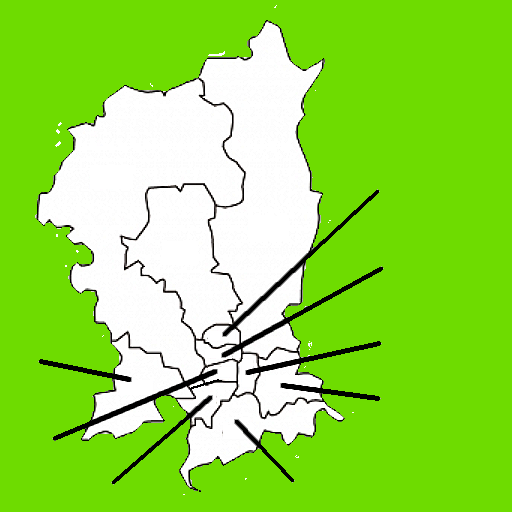
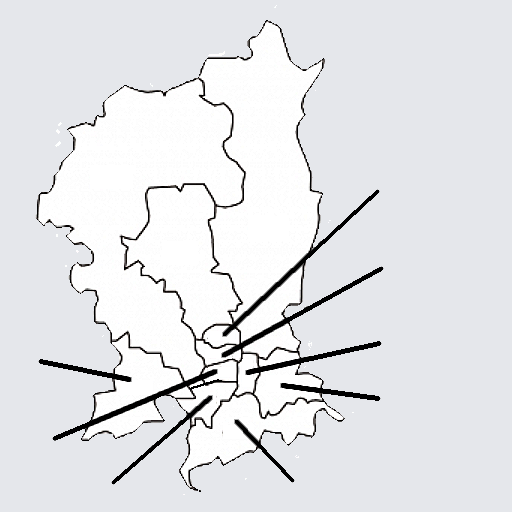
fix: kyoto-ku 地図背景を緑→グレーに変更 + CUDカラー適用
色覚多様性（CUD）対応として地図背景の緑を中性色グレー(#e5e7eb)に置換し、
各区のカード色もCUD推奨パレットに変更

diff --git a/src/app/(apps)/kyoto-ku/page.tsx b/src/app/(apps)/kyoto-ku/page.tsx
@@ -30,17 +30,18 @@ import { CoinDisplay } from "@/components/parts/displays/CoinDisplay"
 //   top%  = (ken_top + 2) / 50 * 100
 //   ※ +2 は section(+19) と maru(+17) の差分
 const WARDS = [
-  { id: 0,  kanji: "右京区",   kana: "うきょうく",     color: "#ef4444", left: 10, top: 45 },
-  { id: 1,  kanji: "左京区",   kana: "さきょうく",     color: "#f97316", left: 49, top: 30 },
-  { id: 2,  kanji: "北区",     kana: "きたく",         color: "#eab308", left: 30, top: 50 },
-  { id: 3,  kanji: "南区",     kana: "みなみく",       color: "#84cc16", left: 10, top: 90 },
-  { id: 4,  kanji: "東山区",   kana: "ひがしやまく",   color: "#22c55e", left: 73, top: 63 },
-  { id: 5,  kanji: "伏見区",   kana: "ふしみく",       color: "#06b6d4", left: 55, top: 90 },
-  { id: 6,  kanji: "西京区",   kana: "にしきょうく",   color: "#3b82f6", left: 0,  top: 65 },
-  { id: 7,  kanji: "山科区",   kana: "やましなく",     color: "#a855f7", left: 73, top: 74 },
-  { id: 8,  kanji: "上京区",   kana: "かみぎょうく",   color: "#8b5cf6", left: 73, top: 34 },
-  { id: 9,  kanji: "下京区",   kana: "しもぎょうく",   color: "#f472b6", left: 0,  top: 80 },
-  { id: 10, kanji: "中京区",   kana: "なかぎょうく",   color: "#92400e", left: 75, top: 50 },
+  // CUD（カラーユニバーサルデザイン）配色: 色覚タイプに依存せず区別しやすい
+  { id: 0,  kanji: "右京区",   kana: "うきょうく",     color: "#ff4b00", left: 10, top: 45 },
+  { id: 1,  kanji: "左京区",   kana: "さきょうく",     color: "#005aff", left: 49, top: 30 },
+  { id: 2,  kanji: "北区",     kana: "きたく",         color: "#fff100", left: 30, top: 50 },
+  { id: 3,  kanji: "南区",     kana: "みなみく",       color: "#ff8082", left: 10, top: 90 },
+  { id: 4,  kanji: "東山区",   kana: "ひがしやまく",   color: "#03af7a", left: 73, top: 63 },
+  { id: 5,  kanji: "伏見区",   kana: "ふしみく",       color: "#4dc4ff", left: 55, top: 90 },
+  { id: 6,  kanji: "西京区",   kana: "にしきょうく",   color: "#f6aa00", left: 0,  top: 65 },
+  { id: 7,  kanji: "山科区",   kana: "やましなく",     color: "#990099", left: 73, top: 74 },
+  { id: 8,  kanji: "上京区",   kana: "かみぎょうく",   color: "#804000", left: 73, top: 34 },
+  { id: 9,  kanji: "下京区",   kana: "しもぎょうく",   color: "#c8c800", left: 0,  top: 80 },
+  { id: 10, kanji: "中京区",   kana: "なかぎょうく",   color: "#ff87ab", left: 75, top: 50 },
 ] as const
 
 // ── コンポーネント ───────────────────────────────────────
